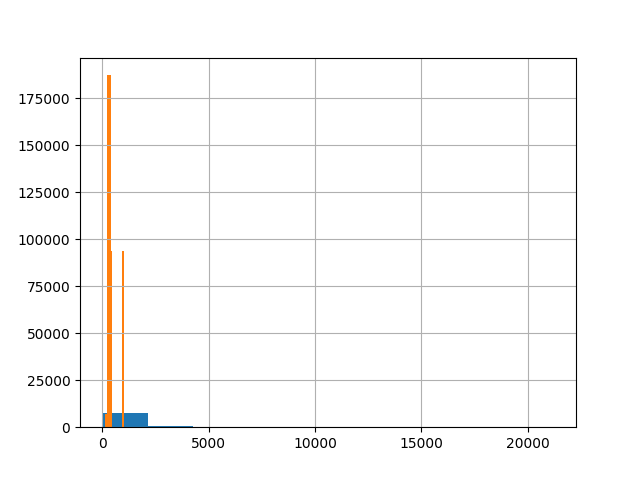
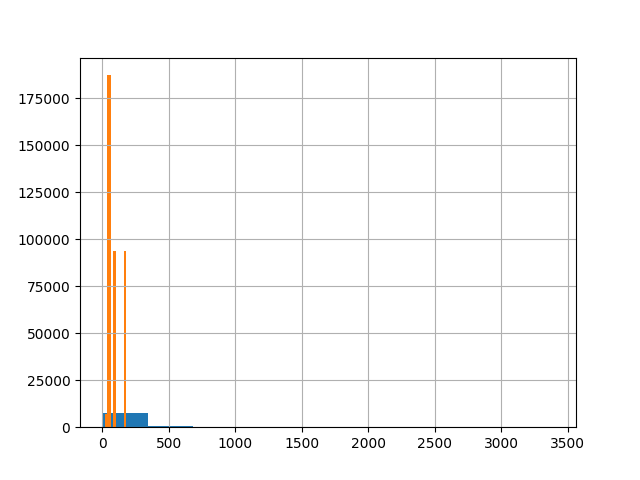
fixed plot issue. Instead of plotting histogram for # characters, it plots data for # words

diff --git a/model/dataProcess.py b/model/dataProcess.py
@@ -97,12 +97,12 @@ def tokenize_text(text_list):
 
     return words_to_int
 
-def encode_reviews(text_list, encoding):
+def encode_reviews(text_list, vocab):
     encoded_reviews = []
 
     for rev in text_list:
-        temp = [encoding[w] for w in rev.split()] 
-        encoded_reviews.append(temp)
+        tmp = [vocab[w] for w in rev.split()] 
+        encoded_reviews.append(tmp)
 
     return encoded_reviews
 
@@ -119,7 +119,7 @@ def plot_review_data(rev_list, data_type):
     for rev in rev_list:
         rev_text.append(rev['review_text'].strip())
 
-    rev_len = [len(w) for w in rev_text]
+    rev_len = [len(w.split()) for w in rev_text]
     plot_data(rev_len, data_type)
 
 
@@ -143,8 +143,8 @@ def load_train_data():
         train_text.append(rev_punct_removed)
         train_label.append(review['rating'])
  
-    encodings = tokenize_text(train_text)
-    reviews_encoded = encode_reviews(train_text, encodings)
+    vocabulary = tokenize_text(train_text)
+    reviews_encoded = encode_reviews(train_text, vocabulary)
 
     rev_len = [len(w) for w in reviews_encoded]
     plot_data(rev_len, 'tokenized_review_len.png')
